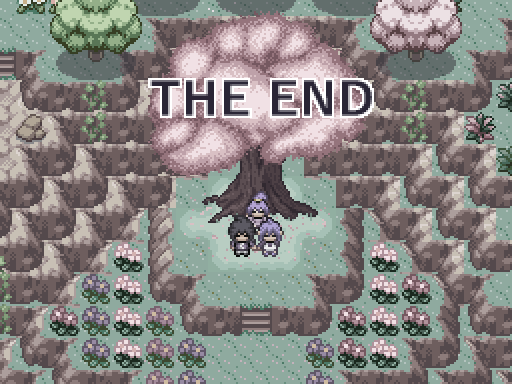
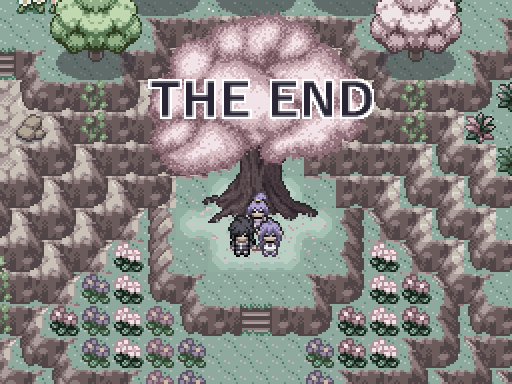
Updated Kenneth Graphics

diff --git a/README.md b/README.md
@@ -493,6 +493,8 @@ All are just copies from the corresponding ones from Rejuvenation
   - Edited copy of `Venam's Mom` from Rejuvenation
 - **"MC_Jan"**
   - Copy of `trchar220` from Rejuvenation
+- **"Boy_run_1", "Boy_run_2", "boy_surf_1", "boy_surf_2", "Boy_walk_1", "Boy_walk_2", "MC_Kenneth6" & "MC_Kenneth7"**
+  - Edited copy of `Keta` from Rejuvenation
 - **"MC_Jan"**
   - Copy of `trchar220` from Rejuvenation
 - **"MC_Madelis"**
@@ -531,10 +533,18 @@ All are just copies from the corresponding ones from Rejuvenation
 <details>
   <summary>Pictures</summary>
 
-- **"TheEnd_1", "TheEnd_2" & "TheEnd_3"**
-  - New images based on new `Route 2` environment
+- **"TheEnd_1_Overhaul" & "TheEnd_2_Overhaul"**
+  - New images based on new `"Map14" (Uncharted Field)` environment
+- **"TheEnd_3_Overhaul"**
+  - New images based on new `"Map14" (Uncharted Field)` environment
+  - Fixed alignment of text
 - **"CarvedTree"**
   - Slighly edited zoomed in copy of the [chapter 2 intro image](https://imgur.com/imtK2xM) by Zumi
+- **"Chapter4_3" & "Chapter4_6"**
+  - Updated Kenneth graphic
+  - Fixed Alignment
+- **"Chapter3_4" & "Chapter3_7"**
+  - Updated Kenneth graphic
 </details>
 
 <details>
@@ -582,6 +592,7 @@ All are just copies from the corresponding ones from Rejuvenation
   - Created a younger tree design for `"Uncharted Field"`
   - Copied destroyed house & family from original `"Route 2"`
   - Adds another water tile
+  - Updated Kenneth graphic
 - **"Route 3"**
   - Copied from `"Route 3"` from Rejuvenation
   - Added cutout version of default grass
@@ -595,6 +606,7 @@ All are just copies from the corresponding ones from Rejuvenation
   - Adds Cherry Blossom for Sensei's Garden
   - Adds new dark window
   - Adds new burned stone barrier
+  - Updated Kenneth graphics
 - **"SheridanInside"**
   - Copied from different parts of `"Multi-Interiors"` from Rejuvenation & `"GearenInteriors"` from the original Where Love Lies
   - Adds more furniture
